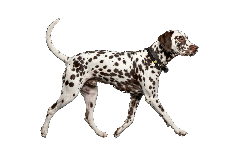
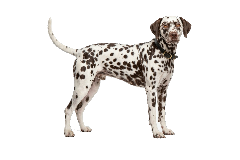
Update Cocoa (Marcello) stop poses: looking forward towards viewer (Alert Stand and Curious Tilt)

Changed region(s): [[0.1458, 0.0938, 0.8458, 0.875]]

diff --git a/assets/js/dalmatian-guardians.js b/assets/js/dalmatian-guardians.js
@@ -36,7 +36,7 @@
       this.lastTimestamp = 0;
 
       // Cache buster for assets
-      const v = 'v=aurelio_light_brown_stops_v2';
+      const v = 'v=aurelio_cocoa_stops_v3';
 
       // Load 6-frame running sequences
       // Patch has anatomically separate sequences: right-facing (right eye patch) and left-facing (no eye patch)

diff --git a/index.html b/index.html
@@ -750,6 +750,6 @@
   </a>
 
   <!-- Real Dalmatian Guardians Engine -->
-  <script src="assets/js/dalmatian-guardians.js?v=aurelio_light_brown_stops_v2"></script>
+  <script src="assets/js/dalmatian-guardians.js?v=aurelio_cocoa_stops_v3"></script>
 </body>
 </html>
